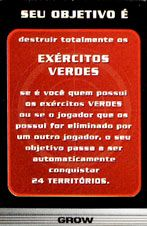
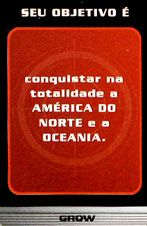
Agora sabemos nosso objetivo

diff --git a/src/view/TelaTabuleiro.java b/src/view/TelaTabuleiro.java
@@ -25,18 +25,17 @@ class TelaTabuleiro extends JFrame {
 	private static final long serialVersionUID = 1L;
 	public final int LARG_DEFAULT = 953;
 	public final int ALT_DEFAULT = 735;
-	JButton b1;
-	JButton b2;
-	JButton b3;
-	ImageIcon nextAction, rollDices;
+	JButton b1, b2, b3, b4, b5;
+	ImageIcon nextAction, rollDices, objCard, tradeCards;
 	Tabuleiro t = new Tabuleiro();
-	JFileChooser chooser = new JFileChooser();
 	ControllerAPI controller = ControllerAPI.getControllerAPI();
 	
 	private TelaTabuleiro() {
 		try {
 			nextAction = new ImageIcon(ImageIO.read(new File("assets/botoes/war_btnProxJogada.png")));
 			rollDices = new ImageIcon(ImageIO.read(new File("assets/botoes/war_btnJogarDados.png")));
+			objCard = new ImageIcon(ImageIO.read(new File("assets/cartas/war_carta_objetivo.png")));
+			tradeCards = new ImageIcon(ImageIO.read(new File("assets/cartas/war_iconeCartas.png")));
 		}
 		catch (IOException e){
 			System.out.println(e.getMessage());
@@ -46,11 +45,12 @@ class TelaTabuleiro extends JFrame {
 		b1 = new JButton(rollDices);
 		b2 = new JButton(nextAction);
 		b3 = new JButton("Salvar Jogo");
+		b4 = new JButton("Objetivo");
+		b5 = new JButton(tradeCards);
 		
 		setSize(LARG_DEFAULT,ALT_DEFAULT);
 		setDefaultCloseOperation(DISPOSE_ON_CLOSE);
 		
-		t.add(b1);
 		b1.setMargin(new Insets(0,0,0,0));
 		b1.setContentAreaFilled(false);
 		b1.setBorder(null);
@@ -79,7 +79,7 @@ class TelaTabuleiro extends JFrame {
 			}
 		});
 		
-		t.add(b2);
+		
 		b2.setMargin(new Insets(0,0,0,0));
 		b2.setContentAreaFilled(false);
 		b2.setBorder(null);
@@ -89,7 +89,7 @@ class TelaTabuleiro extends JFrame {
 			}
 		});
 		
-		t.add(b3);
+		
 		b3.addActionListener(new ActionListener() {
 			public void actionPerformed(ActionEvent e) {
 				try {
@@ -108,7 +108,32 @@ class TelaTabuleiro extends JFrame {
 				}
 			}
 		});
-
+		
+		//b4.setMargin(new Insets(0,0,0,0));
+		//b4.setContentAreaFilled(false);
+		//b4.setBorder(null);
+		b4.addActionListener(new ActionListener() {
+			public void actionPerformed(ActionEvent e) {
+				TelaObjetivo to = new TelaObjetivo();
+				to.setTitle("Seu objetivo");
+				to.setVisible(true);
+			}
+		});
+		
+		b5.setMargin(new Insets(0,0,0,0));
+		b5.setContentAreaFilled(false);
+		b5.setBorder(null);
+		b5.addActionListener(new ActionListener() {
+			public void actionPerformed(ActionEvent e) {
+				//controller.nextAction();
+			}
+		});
+		
+		t.add(b5);
+		t.add(b4);
+		t.add(b3);
+		t.add(b1);
+		t.add(b2);
 		
 		getContentPane().add(t);
 	}

diff --git a/src/model/ModelAPI.java b/src/model/ModelAPI.java
@@ -185,6 +185,10 @@ public class ModelAPI implements Subject{
 		listaJogadores.add(j);
 	}
 
+	public Image getObjectiveImage() { 
+		return listaJogadores.get(0).obj.toDisplay;
+	}
+	
 	public String[] getCurrPlayerTerr() {
 		ArrayList<Territorio> lista = listaJogadores.get(0).paisesDominados;
 		String[] terrs = new String[lista.size()];
@@ -257,7 +261,7 @@ public class ModelAPI implements Subject{
 			else {
 				for (Jogador j : listaJogadores) {
 					if (j != player && j.obj.id - 8 == morto.cor.ordinal()) {//verifica se outro player tinha que eliminar o morto
-						j.obj = new Objetivo14(null); //se sim, substitui seu objetivo
+						j.obj = new Objetivo14(j.obj.toDisplay); //se sim, substitui seu objetivo
 						if(j.obj.verificaObj(j, listaContinente)) {
 							ViewAPI.getViewAPI().showWinner(j.nome, j.obj.descricao);
 							return true;

diff --git a/src/view/TelaObjetivo.java b/src/view/TelaObjetivo.java
@@ -1,7 +1,5 @@
 package view;
 
-import java.awt.Graphics;
-import java.awt.Graphics2D;
 import java.awt.Image;
 import javax.swing.JFrame;
 
@@ -14,21 +12,17 @@ class TelaObjetivo extends JFrame{
 	private static final long serialVersionUID = 1L;
 	public final int LARG_DEFAULT = 395;
 	public final int ALT_DEFAULT = 650;
-	ObjetivoView objv = new ObjetivoView();
 	Image img;
+	ObjetivoView objv;
 	
 	public TelaObjetivo() {
-		ModelAPI.getModelAPI();
+		img = ModelAPI.getModelAPI().getObjectiveImage();
 		
+		setSize(LARG_DEFAULT,ALT_DEFAULT);
+		setDefaultCloseOperation(DISPOSE_ON_CLOSE);
+		
+		objv = new ObjetivoView(img);
 		
 		getContentPane().add(objv);
 	}
-	
-	@Override
-	public void paintComponents(Graphics g) {
-		Graphics2D g2d = (Graphics2D) g;
-		super.paintComponents(g);
-		g2d.drawImage(img, 0, 0, 147, 225, null);
-	}
-	
 }

diff --git a/src/view/ObjetivoView.java b/src/view/ObjetivoView.java
@@ -1,0 +1,26 @@
+package view;
+
+import java.awt.Graphics;
+import java.awt.Graphics2D;
+import java.awt.Image;
+
+import javax.swing.JPanel;
+
+class ObjetivoView extends JPanel {
+	/**
+	 * 
+	 */
+	private static final long serialVersionUID = 1L;
+	Image img;
+	
+	public ObjetivoView(Image img) {
+		this.img = img;
+	}
+	
+	@Override
+	public void paintComponent(Graphics g) {
+		Graphics2D g2d = (Graphics2D) g;
+		super.paintComponents(g);
+		g2d.drawImage(img, 0, 0, 380, 618, null);
+	}
+}
